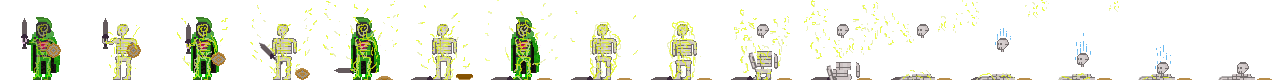
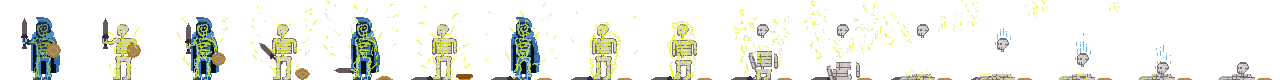
Added the different AirDeathAnimation Colors

diff --git a/core/src/com/coldpixel/sparkle/sprites/Soldier.java b/core/src/com/coldpixel/sparkle/sprites/Soldier.java
@@ -422,6 +422,12 @@ public class Soldier extends Enemy {
                     }
                     deathAnimationFire = new Animation(0.3f, frames);
                     frames.clear();
+					//DeathAnimation Air
+                    for (int i = 0; i < 16; i++) {
+                        frames.add(new TextureRegion(new Texture("Graphics/Enemy/Soldier/soldierEarhDeathAir.png"), i * 80, 0, 80, 80));
+                    }
+                    deathAnimationAir = new Animation(0.3f, frames);
+                    frames.clear();
                     break;
                 case WATER:
                     //Water
@@ -481,6 +487,12 @@ public class Soldier extends Enemy {
                     }
                     deathAnimationFire = new Animation(0.3f, frames);
                     frames.clear();
+					 //DeathAnimation Air
+                    for (int i = 0; i < 16; i++) {
+                        frames.add(new TextureRegion(new Texture("Graphics/Enemy/Soldier/soldierFireDeathAir.png"), i * 80, 0, 80, 80));
+                    }
+                    deathAnimationAir = new Animation(0.3f, frames);
+                    frames.clear();
                     break;
                 case AIR:
                     //walkAnimation
@@ -506,6 +518,12 @@ public class Soldier extends Enemy {
                         frames.add(new TextureRegion(new Texture("Graphics/Enemy/Soldier/soldierAirDeathFire.png"), i * 80, 0,80, 80));
                     }
                     deathAnimationFire = new Animation(0.3f, frames);
+                    frames.clear();
+					 //DeathAnimation Air
+                    for (int i = 0; i < 16; i++) {
+                        frames.add(new TextureRegion(new Texture("Graphics/Enemy/Soldier/soldierAirDeathAir.png"), i * 80, 0, 80, 80));
+                    }
+                    deathAnimationAir = new Animation(0.3f, frames);
                     frames.clear();
                     break;
                 default:
